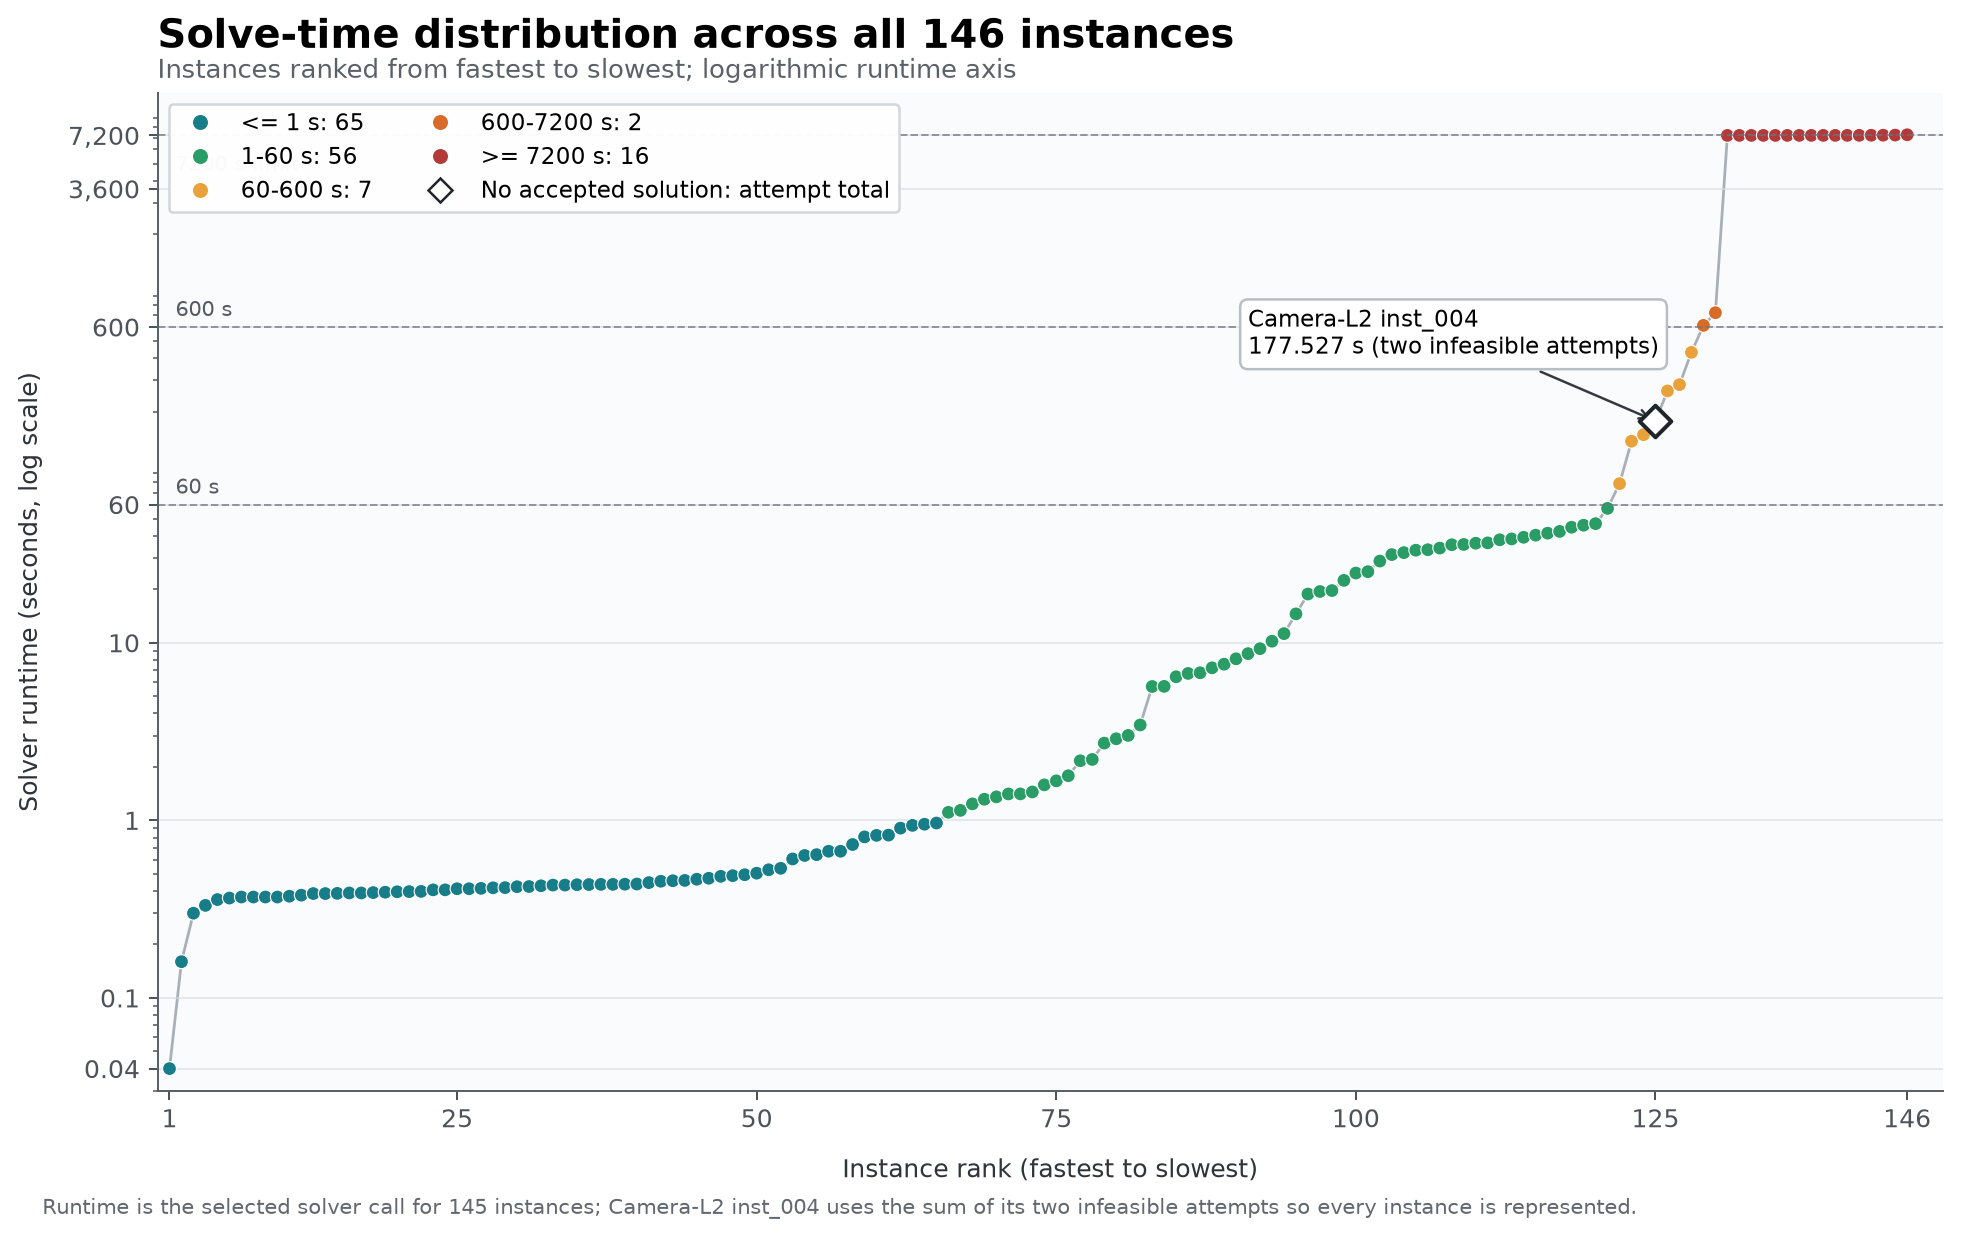
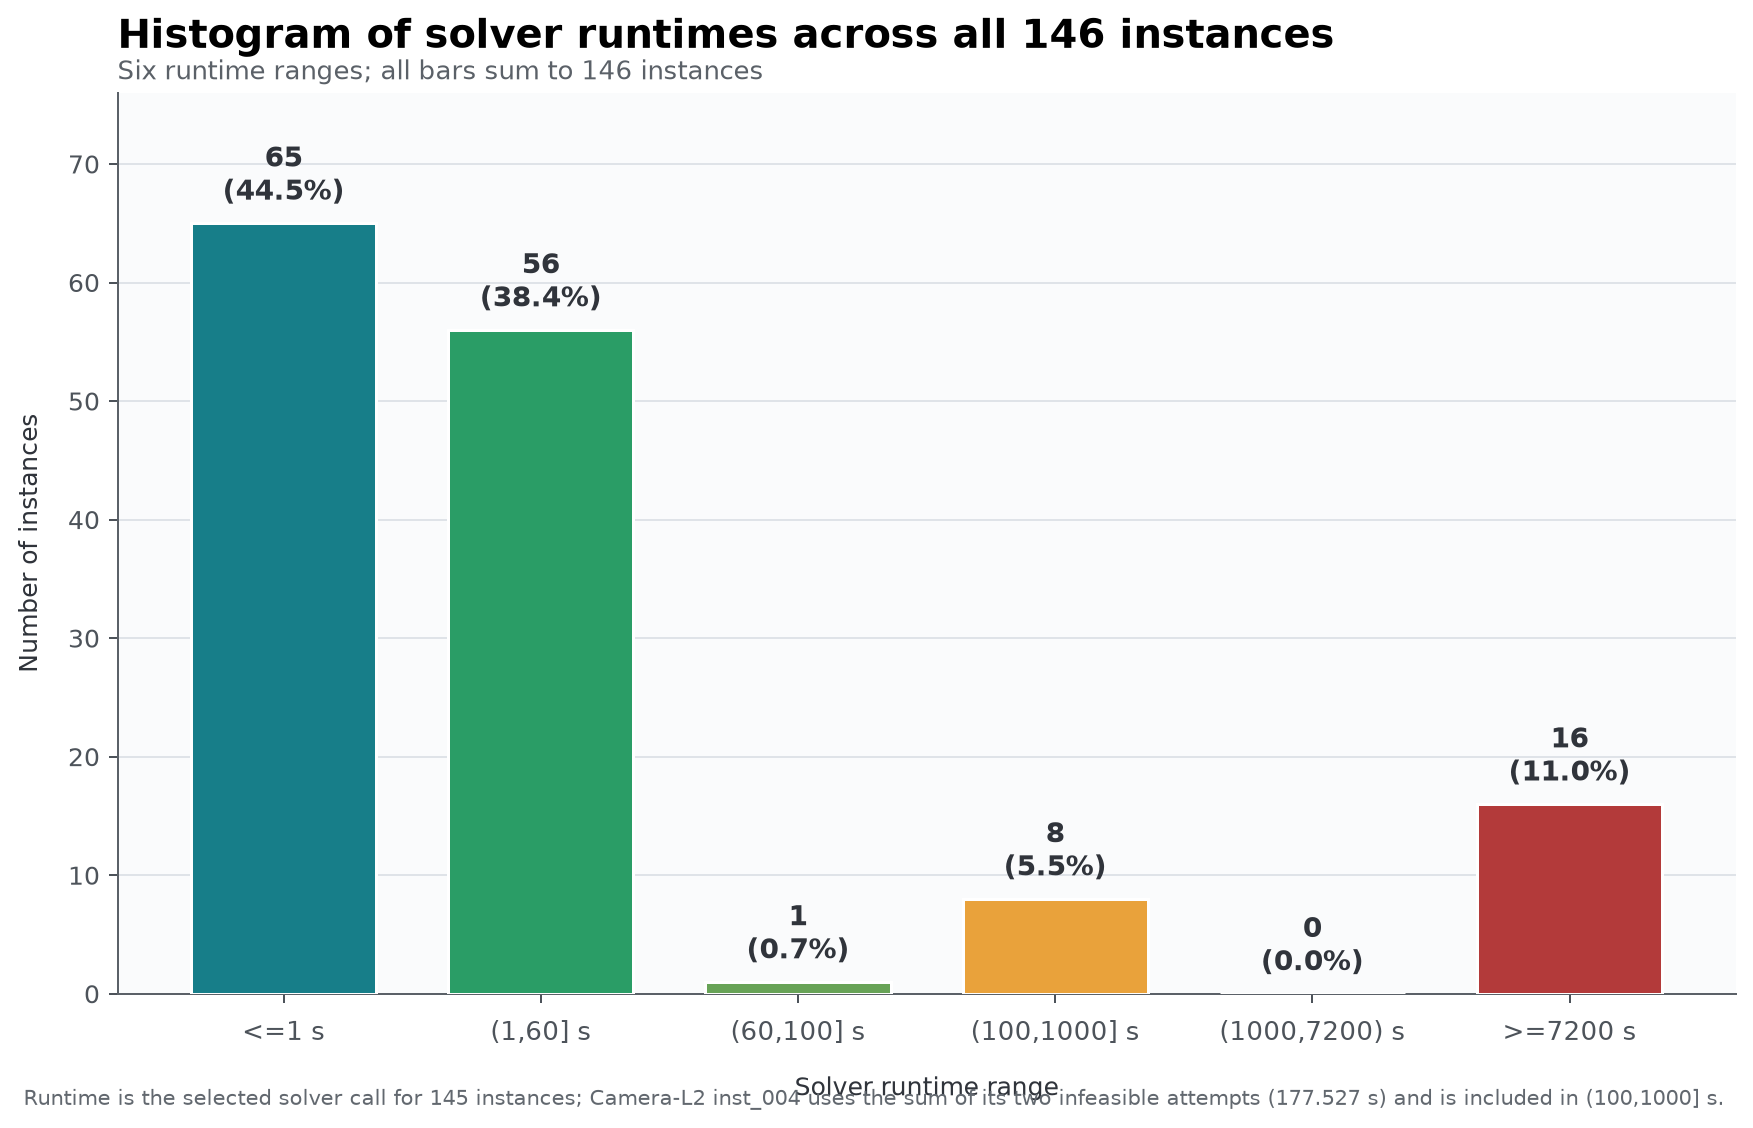
Use six-bin solve-time histogram

diff --git a/tools/plot_noann_solve_time_distribution.py b/tools/plot_noann_solve_time_distribution.py
@@ -10,8 +10,6 @@ import matplotlib
 
 matplotlib.use("Agg")
 import matplotlib.pyplot as plt
-from matplotlib.lines import Line2D
-from matplotlib.ticker import FuncFormatter
 
 
 DATASET_ROOT = Path("/public/chengyingying/project/industry_mathopt_dataset")
@@ -95,39 +93,32 @@ def load_records() -> list[dict]:
 
 def runtime_bucket(seconds: float) -> str:
     if seconds <= 1:
-        return "<= 1 s"
+        return "<=1 s"
     if seconds <= 60:
-        return "1-60 s"
-    if seconds <= 600:
-        return "60-600 s"
+        return "(1,60] s"
+    if seconds <= 100:
+        return "(60,100] s"
+    if seconds <= 1000:
+        return "(100,1000] s"
     if seconds < 7200:
-        return "600-7200 s"
-    return ">= 7200 s"
-
-
-def format_seconds(value: float, _position: float | None = None) -> str:
-    if value < 1:
-        return f"{value:g}"
-    return f"{value:,.0f}"
+        return "(1000,7200) s"
+    return ">=7200 s"
 
 
 def main() -> None:
     records = load_records()
     colors = {
-        "<= 1 s": "#177E89",
-        "1-60 s": "#2A9D66",
-        "60-600 s": "#E9A23B",
-        "600-7200 s": "#D76B27",
-        ">= 7200 s": "#B33A3A",
+        "<=1 s": "#177E89",
+        "(1,60] s": "#2A9D66",
+        "(60,100] s": "#68A357",
+        "(100,1000] s": "#E9A23B",
+        "(1000,7200) s": "#D76B27",
+        ">=7200 s": "#B33A3A",
     }
     counts = {
         bucket: sum(runtime_bucket(record["seconds"]) == bucket for record in records)
         for bucket in colors
     }
-
-    ranks = list(range(1, len(records) + 1))
-    seconds = [record["seconds"] for record in records]
-    point_colors = [colors[runtime_bucket(value)] for value in seconds]
 
     plt.rcParams.update(
         {
@@ -140,121 +131,57 @@ def main() -> None:
             "ytick.color": "#4D535A",
         }
     )
-    fig, ax = plt.subplots(figsize=(12.8, 7.2), dpi=180)
+    fig, ax = plt.subplots(figsize=(11.6, 6.5), dpi=180)
     fig.patch.set_facecolor("white")
     ax.set_facecolor("#FAFBFC")
 
-    ax.plot(ranks, seconds, color="#A8AFB7", linewidth=1.1, zorder=1)
-    ax.scatter(
-        ranks,
-        seconds,
-        c=point_colors,
-        s=31,
-        edgecolors="white",
-        linewidths=0.45,
-        zorder=2,
+    buckets = list(colors)
+    heights = [counts[bucket] for bucket in buckets]
+    bars = ax.bar(
+        buckets,
+        heights,
+        color=[colors[bucket] for bucket in buckets],
+        edgecolor="white",
+        linewidth=1.2,
+        width=0.72,
+        zorder=3,
     )
-
-    proxy_index = next(
-        index
-        for index, record in enumerate(records)
-        if record["source"] == "infeasible_attempt_total"
-    )
-    ax.scatter(
-        [proxy_index + 1],
-        [records[proxy_index]["seconds"]],
-        marker="D",
-        s=80,
-        facecolors="white",
-        edgecolors="#20252B",
-        linewidths=1.6,
-        zorder=4,
-    )
-    ax.annotate(
-        "Camera-L2 inst_004\n177.527 s (two infeasible attempts)",
-        xy=(proxy_index + 1, records[proxy_index]["seconds"]),
-        xytext=(91, 425),
-        textcoords="data",
-        arrowprops={"arrowstyle": "->", "color": "#343A40", "lw": 1},
-        bbox={"boxstyle": "round,pad=0.35", "fc": "white", "ec": "#B8BEC5"},
-        fontsize=9,
-        ha="left",
-    )
-
-    for value, label in ((60, "60 s"), (600, "600 s"), (7200, "7200 s limit")):
-        ax.axhline(value, color="#6E747B", linestyle="--", linewidth=0.8, alpha=0.7)
+    for bar, count in zip(bars, heights):
         ax.text(
-            1.5,
-            value * (1.08 if value < 7200 else 0.78),
-            label,
-            color="#555B62",
-            fontsize=8.5,
-            va="bottom" if value < 7200 else "top",
+            bar.get_x() + bar.get_width() / 2,
+            count + 1.2,
+            f"{count}\n({count / len(records):.1%})",
+            ha="center",
+            va="bottom",
+            fontsize=11,
+            fontweight="bold",
+            color="#30343B",
         )
 
-    ax.set_yscale("log")
-    ax.set_ylim(0.03, 12500)
-    ax.set_xlim(0, 149)
-    ax.set_xticks([1, 25, 50, 75, 100, 125, 146])
-    ax.set_yticks([0.04, 0.1, 1, 10, 60, 600, 3600, 7200])
-    ax.yaxis.set_major_formatter(FuncFormatter(format_seconds))
-    ax.grid(axis="y", which="major", color="#D9DEE3", linewidth=0.7, alpha=0.75)
+    ax.set_ylim(0, 76)
+    ax.set_yticks(range(0, 71, 10))
+    ax.grid(axis="y", color="#D9DEE3", linewidth=0.8, alpha=0.8, zorder=0)
     ax.grid(axis="x", visible=False)
     ax.spines[["top", "right"]].set_visible(False)
 
-    ax.set_title("Solve-time distribution across all 146 instances", loc="left", fontsize=16, pad=18)
+    ax.set_title("Histogram of solver runtimes across all 146 instances", loc="left", fontsize=16, pad=18)
     ax.text(
         0,
         1.015,
-        "Instances ranked from fastest to slowest; logarithmic runtime axis",
+        "Six runtime ranges; all bars sum to 146 instances",
         transform=ax.transAxes,
         color="#5B6168",
         fontsize=10.5,
     )
-    ax.set_xlabel("Instance rank (fastest to slowest)", labelpad=10)
-    ax.set_ylabel("Solver runtime (seconds, log scale)", labelpad=10)
-
-    legend_handles = [
-        Line2D(
-            [0],
-            [0],
-            marker="o",
-            color="none",
-            markerfacecolor=color,
-            markeredgecolor="white",
-            markersize=7,
-            label=f"{bucket}: {counts[bucket]}",
-        )
-        for bucket, color in colors.items()
-    ]
-    legend_handles.append(
-        Line2D(
-            [0],
-            [0],
-            marker="D",
-            color="none",
-            markerfacecolor="white",
-            markeredgecolor="#20252B",
-            markersize=7,
-            label="No accepted solution: attempt total",
-        )
-    )
-    ax.legend(
-        handles=legend_handles,
-        loc="upper left",
-        frameon=True,
-        framealpha=0.97,
-        facecolor="white",
-        edgecolor="#D1D6DB",
-        ncol=2,
-        fontsize=9,
-    )
+    ax.set_xlabel("Solver runtime range", labelpad=12)
+    ax.set_ylabel("Number of instances", labelpad=10)
+    ax.tick_params(axis="x", labelsize=10.5, pad=7)
 
     fig.text(
-        0.075,
+        0.08,
         0.015,
         "Runtime is the selected solver call for 145 instances; Camera-L2 inst_004 uses the "
-        "sum of its two infeasible attempts so every instance is represented.",
+        "sum of its two infeasible attempts (177.527 s) and is included in (100,1000] s.",
         color="#62686F",
         fontsize=8.5,
     )

diff --git a/docs/gpt-5.6-sol-harness_noann_report.md b/docs/gpt-5.6-sol-harness_noann_report.md
@@ -319,17 +319,18 @@ HiGHS `Timing` 或 SCIP `Solving Time` 补齐；`inst_008` 同样按求解器日
 没有可采用的解，因而没有 `solve_seconds`，未进入分位数；其 IPOPT 和 Couenne 两次不可行
 尝试分别耗时 177.412 秒和 0.115 秒，累计 177.527 秒。
 
-下图覆盖全部 146 个实例。横轴按耗时从快到慢排序，每个点代表一个实例；纵轴采用对数
-尺度，以同时展示亚秒级实例和达到 7200 秒时限的实例。145 个有最终采用求解器计时的实例
-使用 `solve_seconds`（TBE 按求解器日志补齐），Camera-L2 `inst_004` 使用两次不可行尝试
-的累计 177.527 秒，并以空心菱形标出。因此图中的 146 个点与下方“有计时/总数”表的
-145/146 口径不同，但覆盖了相同的全部实例集合。
+下图覆盖全部 146 个实例。横轴采用六个求解时间范围：`<=1 s`、`(1,60] s`、
+`(60,100] s`、`(100,1000] s`、`(1000,7200) s` 和 `>=7200 s`；纵轴为各范围内的
+实例数量。145 个有最终采用求解器计时的实例使用 `solve_seconds`（TBE 按求解器日志
+补齐），Camera-L2 `inst_004` 使用两次不可行尝试的累计 177.527 秒，计入
+`(100,1000] s`。因此直方图覆盖 146 个实例，而下方描述分位数的“有计时/总数”表仍为
+145/146。
 
 ![146 个实例的求解时间分布](figures/gpt-5.6-sol-noann-solve-time-distribution.png)
 
-图 7-1：所有 146 个实例的求解时间分布。颜色表示耗时区间，虚线分别表示 60 秒、600 秒
-和单求解器 7200 秒时限；图中“attempt total”仅用于表示没有可接受解的 Camera-L2
-`inst_004`，不表示一个成功的求解时间。绘图脚本为
+图 7-1：所有 146 个实例的求解时间直方图。柱顶同时标出实例数及其占全部实例的比例；
+`(1000,7200) s` 范围没有实例，因而柱高为 0。Camera-L2 `inst_004` 的累计尝试时间只为
+完整覆盖实例集合，不表示一个成功的求解时间。绘图脚本为
 `tools/plot_noann_solve_time_distribution.py`。
 
 | 问题类 | 有计时/总数 | 最小 | P25 | 中位数 | P75 | 最大 | 均值 |
@@ -354,32 +355,33 @@ HiGHS `Timing` 或 SCIP `Solving Time` 补齐；`inst_008` 同样按求解器日
 | ICT-OpticalNetwork-NetworkPlanning-PathProtection | 5/5 | 0.417 | 0.484 | 1.356 | 1.783 | 2.880 | 1.384 |
 | ICT-Wireless-ChannelEstimation-SparseDelay | 10/10 | 0.807 | 9.502 | 28.02 | 68.64 | 284.24 | 74.11 |
 
-耗时区间计数如下。`>=7200` 表示最终采用的求解器达到或略超单求解器 7200 秒时限；
-评测器在求解调用外层按 wall-clock 计时，进程启动、结果回收和清理会使记录值略高于
-7200 秒。
+直方图对应的逐问题类计数如下。`>=7200 s` 表示最终采用的求解器达到或略超单求解器
+7200 秒时限；评测器在求解调用外层按 wall-clock 计时，进程启动、结果回收和清理会使
+记录值略高于 7200 秒。本表与直方图一样将 Camera-L2 `inst_004` 的累计尝试时间计入
+`(100,1000] s`，因此合计为 146。
 
-| 问题类 | `<=1` | `(1,60]` | `(60,600]` | `(600,7200)` | `>=7200` |
-| --- | ---: | ---: | ---: | ---: | ---: |
-| Auto-Vehicle-ActiveSuspensionBalance | 0 | 8 | 0 | 0 | 0 |
-| CBG-Camera-JPEGQuantizationTable | 2 | 6 | 0 | 0 | 0 |
-| CBG-Camera-VideoStabilization-L1 | 8 | 0 | 0 | 0 | 0 |
-| CBG-Camera-VideoStabilization-L2 | 0 | 7 | 0 | 0 | 0 |
-| CBG-Communication-RailCellHandover | 3 | 2 | 0 | 0 | 0 |
-| CBG-HarmonyOS-CriticalThreadOpt | 5 | 0 | 0 | 0 | 0 |
-| CBG-HarmonyOS-MemoryEviction | 8 | 0 | 0 | 0 | 0 |
-| Compute-CAE-SparseLA-LDLSymmetricPivoting | 6 | 0 | 0 | 0 | 0 |
-| Compute-CAE-SparseLA-LUPivotReordering | 6 | 0 | 0 | 0 | 0 |
-| Compute-Cluster-CrossPodLoadBalancing | 0 | 2 | 0 | 1 | 7 |
-| Compute-LLM-MoEExpertLoadBalance | 2 | 0 | 0 | 1 | 2 |
-| Compute-TBE-MemoryAllocation | 3 | 1 | 1 | 0 | 3 |
-| Energy-Microgrid-SizingAndOperation | 0 | 4 | 2 | 0 | 4 |
-| Energy-VPP-DayAheadAdjustableLoadScheduling | 6 | 9 | 0 | 0 | 0 |
-| ICT-DataCom-LoadBalancing-SingleAndMultitimestamp | 8 | 0 | 0 | 0 | 0 |
-| ICT-DataCom-NetworkPlanning-CapacityExpansion | 4 | 4 | 0 | 0 | 0 |
-| ICT-OpticalNetwork-NetworkPlanning-LinkProtection | 1 | 4 | 0 | 0 | 0 |
-| ICT-OpticalNetwork-NetworkPlanning-PathProtection | 2 | 3 | 0 | 0 | 0 |
-| ICT-Wireless-ChannelEstimation-SparseDelay | 1 | 6 | 3 | 0 | 0 |
-| **合计** | **65** | **56** | **6** | **2** | **16** |
+| 问题类 | `<=1 s` | `(1,60] s` | `(60,100] s` | `(100,1000] s` | `(1000,7200) s` | `>=7200 s` |
+| --- | ---: | ---: | ---: | ---: | ---: | ---: |
+| Auto-Vehicle-ActiveSuspensionBalance | 0 | 8 | 0 | 0 | 0 | 0 |
+| CBG-Camera-JPEGQuantizationTable | 2 | 6 | 0 | 0 | 0 | 0 |
+| CBG-Camera-VideoStabilization-L1 | 8 | 0 | 0 | 0 | 0 | 0 |
+| CBG-Camera-VideoStabilization-L2 | 0 | 7 | 0 | 1 | 0 | 0 |
+| CBG-Communication-RailCellHandover | 3 | 2 | 0 | 0 | 0 | 0 |
+| CBG-HarmonyOS-CriticalThreadOpt | 5 | 0 | 0 | 0 | 0 | 0 |
+| CBG-HarmonyOS-MemoryEviction | 8 | 0 | 0 | 0 | 0 | 0 |
+| Compute-CAE-SparseLA-LDLSymmetricPivoting | 6 | 0 | 0 | 0 | 0 | 0 |
+| Compute-CAE-SparseLA-LUPivotReordering | 6 | 0 | 0 | 0 | 0 | 0 |
+| Compute-Cluster-CrossPodLoadBalancing | 0 | 2 | 0 | 1 | 0 | 7 |
+| Compute-LLM-MoEExpertLoadBalance | 2 | 0 | 0 | 1 | 0 | 2 |
+| Compute-TBE-MemoryAllocation | 3 | 1 | 0 | 1 | 0 | 3 |
+| Energy-Microgrid-SizingAndOperation | 0 | 4 | 0 | 2 | 0 | 4 |
+| Energy-VPP-DayAheadAdjustableLoadScheduling | 6 | 9 | 0 | 0 | 0 | 0 |
+| ICT-DataCom-LoadBalancing-SingleAndMultitimestamp | 8 | 0 | 0 | 0 | 0 | 0 |
+| ICT-DataCom-NetworkPlanning-CapacityExpansion | 4 | 4 | 0 | 0 | 0 | 0 |
+| ICT-OpticalNetwork-NetworkPlanning-LinkProtection | 1 | 4 | 0 | 0 | 0 | 0 |
+| ICT-OpticalNetwork-NetworkPlanning-PathProtection | 2 | 3 | 0 | 0 | 0 | 0 |
+| ICT-Wireless-ChannelEstimation-SparseDelay | 1 | 6 | 1 | 2 | 0 | 0 |
+| **合计** | **65** | **56** | **1** | **8** | **0** | **16** |
 
 145 个有最终求解器计时的实例中，121 个（83.45%）在 60 秒内完成；整体中位数为
 1.445 秒，P75 为 35.784 秒，P90 已达到 7200.01 秒。均值为 821.34 秒，明显高于
